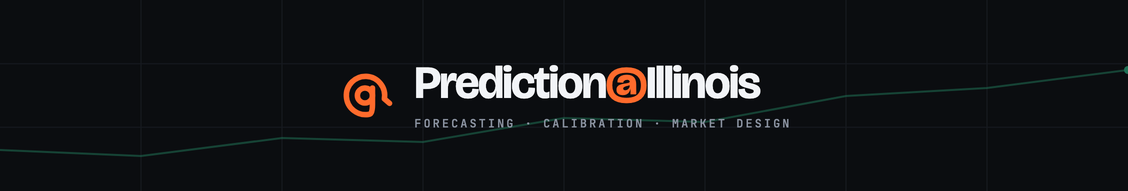
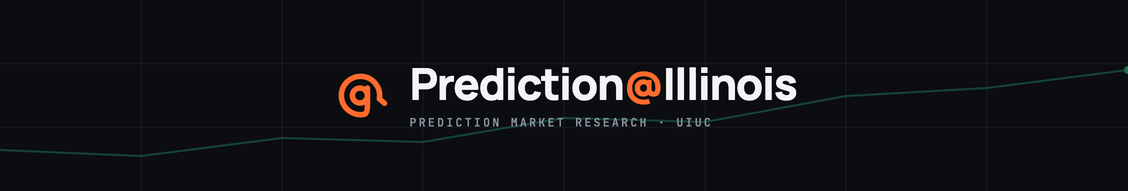
Hero: 'Prediction market research at Illinois', Manrope, live Polymarket board and ticker

Changed region(s): [[0.2793, 0.3403, 0.7137, 0.6283], [0.3413, 0.6021, 0.7137, 0.6806]]

diff --git a/index.html b/index.html
@@ -1,6 +1,6 @@
-<meta name="description" content="A student research group at the University of Illinois Urbana-Champaign that studies prediction markets end to end — pricing, forecasting, mechanism, application — across elections, sports, crypto, economics, tech, and weather. Fall 2026 applications open.">
+<meta name="description" content="Prediction@Illinois is a student research organization at the University of Illinois Urbana-Champaign focused on prediction markets: how they price events, how well they forecast, how contracts are designed and resolved, and what they are good for. Fall 2026 applications open.">
 <meta property="og:title" content="Prediction@Illinois">
-<meta property="og:description" content="We study prediction markets — pricing, forecasting, mechanism, application. A student research group at UIUC. Fall 2026 applications open.">
+<meta property="og:description" content="Prediction market research at Illinois. A student research organization at UIUC — Fall 2026 applications open.">
 <meta property="og:image" content="https://prediction-illinois.github.io/brand/og-image-1200x630.png">
 <meta property="og:url" content="https://prediction-illinois.github.io/">
 <meta property="og:type" content="website">
@@ -10,7 +10,7 @@
 <script>(function(){var r=document.documentElement;try{if(!r.dataset.theme){r.dataset.theme=localStorage.getItem("pi-theme")==="light"?"light":"dark"}}catch(e){r.dataset.theme="dark"}})();</script>
 <link rel="preconnect" href="https://fonts.googleapis.com">
 <link rel="preconnect" href="https://fonts.gstatic.com" crossorigin>
-<link rel="stylesheet" href="https://fonts.googleapis.com/css2?family=Bricolage+Grotesque:opsz,wght@12..96,500;12..96,700;12..96,800&family=DM+Sans:opsz,wght@9..40,400;9..40,500;9..40,600&family=JetBrains+Mono:wght@400;500;600&display=swap">
+<link rel="stylesheet" href="https://fonts.googleapis.com/css2?family=Manrope:wght@500;700;800&family=DM+Sans:opsz,wght@9..40,400;9..40,500;9..40,600&family=JetBrains+Mono:wght@400;500;600&display=swap">
 <style>
 :root{
   color-scheme:dark;
@@ -19,7 +19,7 @@
   --brand:#FF6B2C; --brand-ink:#0B0D10; --brand-soft:rgba(255,107,44,.12); --brand-line:rgba(255,107,44,.35);
   --yes:#34D399; --yes-soft:rgba(52,211,153,.13); --no:#F87171; --no-soft:rgba(248,113,113,.13);
   --glass:rgba(11,13,16,.78);
-  --display:"Bricolage Grotesque",ui-sans-serif,system-ui,-apple-system,"Segoe UI",sans-serif;
+  --display:"Manrope",ui-sans-serif,system-ui,-apple-system,"Segoe UI",sans-serif;
   --sans:"DM Sans",ui-sans-serif,system-ui,-apple-system,"Segoe UI",sans-serif;
   --mono:"JetBrains Mono",ui-monospace,SFMono-Regular,Menlo,monospace;
   --wrap:76rem; --prose:34rem;
@@ -59,7 +59,7 @@ header.site{position:sticky;top:env(safe-area-inset-top,0px);z-index:30;backgrou
 .bar{display:flex;align-items:center;gap:20px;min-height:62px}
 .brandlink{display:flex;align-items:center;gap:10px;text-decoration:none;margin-right:auto}
 .brandlink svg{width:26px;height:26px}
-.wordmark{font-family:var(--display);font-weight:700;font-size:19px;letter-spacing:-.025em;font-variation-settings:"opsz" 24}
+.wordmark{font-family:var(--display);font-weight:800;font-size:19px;letter-spacing:-.03em}
 .wordmark .at{color:var(--brand)}
 nav.site{display:flex;gap:22px;align-items:center}
 nav.site a{font-size:13.5px;font-weight:500;color:var(--ink-2);text-decoration:none}
@@ -81,8 +81,9 @@ nav.site a:hover{color:var(--ink)}
 /* hero */
 .hero{padding-block:clamp(48px,8vw,104px) clamp(40px,6vw,72px);display:grid;grid-template-columns:minmax(0,1.05fr) minmax(0,1fr);gap:clamp(28px,5vw,72px);align-items:center}
 @media (max-width:940px){.hero{grid-template-columns:1fr}}
-.hero h1{font-family:var(--display);font-weight:700;font-variation-settings:"opsz" 96;font-size:clamp(44px,7.2vw,86px);line-height:.98;letter-spacing:-.035em;margin-top:18px;max-width:11ch}
-.hero h1 em{font-style:normal;color:var(--brand)}
+.hero h1{font-family:var(--display);font-weight:800;font-size:clamp(38px,5.2vw,64px);line-height:1.04;letter-spacing:-.03em;margin-top:18px;max-width:14ch}
+.hero.solo{grid-template-columns:1fr}
+.hero.solo>div:first-child{max-width:46rem}
 .lede{max-width:var(--prose);margin-top:22px;font-size:17px;color:var(--ink-2);line-height:1.6}
 .lede strong{color:var(--ink);font-weight:600}
 .cta-row{display:flex;gap:12px;flex-wrap:wrap;margin-top:30px;align-items:center}
@@ -95,26 +96,7 @@ nav.site a:hover{color:var(--ink)}
 .live{display:inline-flex;align-items:center;gap:6px;font-family:var(--mono);font-size:10.5px;letter-spacing:.1em;text-transform:uppercase;color:var(--muted)}
 .live i{width:6px;height:6px;border-radius:50%;background:var(--brand);display:inline-block;animation:pulse 2s ease-in-out infinite}
 @keyframes pulse{0%,100%{opacity:1}50%{opacity:.35}}
-.feat{padding:18px 16px 14px}
-.feat .tag{font-family:var(--mono);font-size:10.5px;letter-spacing:.1em;text-transform:uppercase;color:var(--muted);display:flex;gap:8px;align-items:center}
-.feat .tag b{color:var(--brand);font-weight:500}
-.feat h3{font-family:var(--sans);font-weight:600;font-size:17px;line-height:1.35;margin-top:8px;letter-spacing:-.01em}
-.sides{display:grid;grid-template-columns:1fr 1fr;gap:10px;margin-top:14px}
-.side{border-radius:10px;padding:11px 12px;display:flex;justify-content:space-between;align-items:center;border:1px solid transparent}
-.side.yes{background:var(--yes-soft);border-color:color-mix(in srgb,var(--yes) 30%,transparent)}
-.side.no{background:var(--no-soft);border-color:color-mix(in srgb,var(--no) 30%,transparent)}
-.side .lbl{font-family:var(--mono);font-size:11px;letter-spacing:.12em;text-transform:uppercase}
-.side.yes .lbl,.side.yes .pct{color:var(--yes)} .side.no .lbl,.side.no .pct{color:var(--no)}
-.side .pct{font-family:var(--mono);font-weight:600;font-size:22px;font-variant-numeric:tabular-nums;letter-spacing:-.02em}
-.spark{margin-top:14px;height:74px;position:relative}
-.spark svg{width:100%;height:100%}
-.spark .grid line{stroke:var(--line);stroke-width:1}
-.spark .path{fill:none;stroke:var(--yes);stroke-width:2;stroke-linecap:round;stroke-linejoin:round}
-.spark .area{fill:url(#sparkfill)}
-.spark .end{fill:var(--yes)}
-.spark .lab{font-family:var(--mono);font-size:9px;fill:var(--muted)}
-.meta{display:flex;gap:14px;flex-wrap:wrap;margin-top:12px;font-family:var(--mono);font-size:11px;color:var(--muted);letter-spacing:.02em}
-.meta b{color:var(--ink-2);font-weight:500}
+
 .rows{border-top:1px solid var(--line)}
 .row{display:grid;grid-template-columns:1fr auto 92px;gap:12px;align-items:center;padding:11px 16px;border-bottom:1px solid var(--line);font-size:13.5px;color:var(--ink-2)}
 .row:last-child{border-bottom:0}
@@ -145,7 +127,7 @@ nav.site a:hover{color:var(--ink)}
 section.band{padding-block:clamp(56px,8vw,96px);border-bottom:1px solid var(--line)}
 .sec-head{display:grid;grid-template-columns:minmax(0,1fr) minmax(0,1fr);gap:24px;align-items:end}
 @media (max-width:760px){.sec-head{grid-template-columns:1fr}}
-.h2{font-family:var(--display);font-weight:700;font-variation-settings:"opsz" 72;font-size:clamp(30px,4.2vw,48px);letter-spacing:-.03em;line-height:1.02;margin-top:12px}
+.h2{font-family:var(--display);font-weight:800;font-size:clamp(28px,3.8vw,44px);letter-spacing:-.03em;line-height:1.05;margin-top:12px}
 .sub{max-width:var(--prose);color:var(--ink-2);font-size:16px;line-height:1.6}
 
 
@@ -221,10 +203,6 @@ footer{padding-block:40px 52px;color:var(--muted);font-size:12.5px}
         <path d="M62 37 L62 66 Q62 82.5 55.73 82.5 A33 33 0 1 1 82.5 55.73 L91.5 63.5"/>
       </g>
     </symbol>
-    <linearGradient id="sparkfill" x1="0" y1="0" x2="0" y2="1">
-      <stop offset="0" stop-color="#34D399" stop-opacity=".28"/>
-      <stop offset="1" stop-color="#34D399" stop-opacity="0"/>
-    </linearGradient>
   </defs>
 </svg>
 
@@ -245,11 +223,11 @@ footer{padding-block:40px 52px;color:var(--muted);font-size:12.5px}
 </header>
 
 <main id="top">
-  <section class="wrap hero">
+  <section class="wrap hero" id="hero">
     <div>
       <span class="eyebrow brand">University of Illinois Urbana–Champaign</span>
-      <h1>We study<br><em>prediction</em><br>markets.</h1>
-      <p class="lede">A student research group at UIUC that takes prediction markets as its whole subject: <strong>how prices form</strong> and who moves them, <strong>how well the crowd forecasts</strong> and when it doesn't, <strong>how contracts are designed</strong> and resolved, and <strong>what the markets are actually good for</strong> — across elections, sports, crypto, economics, tech, and weather.</p>
+      <h1>Prediction market research at Illinois.</h1>
+      <p class="lede">Prediction@Illinois is a student research organization at UIUC. We research how prediction markets price events, how well they forecast, how their contracts are designed and resolved, and what they are good for — across elections, sports, crypto, economics, tech, and weather.</p>
       <div class="cta-row">
         <a class="btn btn-1 btn-lg" href="#join">Apply for Fall 2026</a>
         <a class="btn btn-2 btn-lg" href="#roles">See the tracks</a>
@@ -257,52 +235,19 @@ footer{padding-block:40px 52px;color:var(--muted);font-size:12.5px}
       </div>
     </div>
 
-    <div class="board" aria-label="Sample research board">
+    <div class="board" id="board" hidden aria-label="Live prediction markets">
       <div class="board-head">
-        <span class="eyebrow">Research board · illustrative</span>
-        <span class="live"><i></i>Fall 2026</span>
+        <span class="eyebrow">Polymarket · most traded, 24h</span>
+        <span class="live"><i></i>Live</span>
       </div>
-      <div class="feat">
-        <div class="tag"><b>Elections</b> · resolves Nov 3</div>
-        <h3>Do market prices beat the polling average 30 days out from a US House race?</h3>
-        <div class="sides">
-          <div class="side yes"><span class="lbl">Yes</span><span class="pct num" data-count="64">64%</span></div>
-          <div class="side no"><span class="lbl">No</span><span class="pct num" data-count="36">36%</span></div>
-        </div>
-        <div class="spark">
-          <svg viewBox="0 0 320 74" preserveAspectRatio="none" aria-hidden="true">
-            <g class="grid"><line x1="0" y1="18" x2="320" y2="18"/><line x1="0" y1="37" x2="320" y2="37"/><line x1="0" y1="56" x2="320" y2="56"/></g>
-            <path class="area" d="M0 44 L14 46 L28 41 L42 43 L56 39 L70 40 L84 35 L98 37 L112 33 L126 34 L140 30 L154 32 L168 28 L182 25 L196 27 L210 23 L224 24 L238 21 L252 22 L266 19 L280 20 L294 17 L308 18 L320 16 L320 74 L0 74 Z"/>
-            <path class="path" id="sparkpath" d="M0 44 L14 46 L28 41 L42 43 L56 39 L70 40 L84 35 L98 37 L112 33 L126 34 L140 30 L154 32 L168 28 L182 25 L196 27 L210 23 L224 24 L238 21 L252 22 L266 19 L280 20 L294 17 L308 18 L320 16"/>
-            <circle class="end" cx="320" cy="16" r="3"/>
-            <text class="lab" x="4" y="14">70</text><text class="lab" x="4" y="52">50</text>
-          </svg>
-        </div>
-        <div class="meta"><span><b>42</b> forecasters</span><span><b>0.191</b> Brier</span><span>Question <b>#07</b> / 20</span></div>
-      </div>
-      <div class="rows">
-        <div class="row" data-side="yes"><div class="q">Does the pre-game favorite win as often as its price implies?<span>Sports</span></div><div class="pct num" data-count="71">71%</div><div class="track"><i style="transform:scaleX(.71)"></i></div></div>
-        <div class="row" data-side="no"><div class="q">Does longshot bias in sub-5¢ contracts survive fee-adjusted returns?<span>Crypto</span></div><div class="pct num" data-count="23">23%</div><div class="track"><i style="transform:scaleX(.23)"></i></div></div>
-        <div class="row" data-side="yes"><div class="q">Does the daily-high market beat the NWS forecast at 24 hours?<span>Weather</span></div><div class="pct num" data-count="58">58%</div><div class="track"><i style="transform:scaleX(.58)"></i></div></div>
-      </div>
-      <div class="board-foot">Figures are illustrative. Scored by Brier and log score; every question resolves against a public source.</div>
+      <div class="rows" id="board-rows"></div>
+      <div class="board-foot">Prices from Polymarket's public API at page load. Shown as research material.</div>
     </div>
   </section>
 
-  <div class="ticker" aria-hidden="true">
-    <div class="tk-track" id="tk">
-      <span class="tk" data-side="yes"><span class="cat">Economics</span>Cut of 25bp at the next FOMC<span class="num">58%</span></span>
-      <span class="tk" data-side="no"><span class="cat">Weather</span>Champaign high above 60°F on Friday<span class="num">31%</span></span>
-      <span class="tk" data-side="yes"><span class="cat">Sports</span>Illini finish above .500 in conference<span class="num">67%</span></span>
-      <span class="tk" data-side="no"><span class="cat">Economics</span>CPI print above consensus<span class="num">44%</span></span>
-      <span class="tk" data-side="yes"><span class="cat">Tech</span>Model released before quarter end<span class="num">72%</span></span>
-      <span class="tk" data-side="no"><span class="cat">Crypto</span>BTC above $100k at month end<span class="num">39%</span></span>
-      <span class="tk" data-side="yes"><span class="cat">Elections</span>House margin under 10 seats<span class="num">55%</span></span>
-      <span class="tk" data-side="no"><span class="cat">Finance</span>VIX closes above 20 this month<span class="num">28%</span></span>
-    </div>
+  <div class="ticker" id="ticker" hidden aria-hidden="true">
+    <div class="tk-track" id="tk"></div>
   </div>
-
-
 
   <section class="band" id="team" hidden>
     <div class="wrap">
@@ -414,30 +359,57 @@ document.getElementById("theme").addEventListener("click", () => {
   try { localStorage.setItem("pi-theme", next); } catch (_) {}
 });
 
-// ticker: duplicate once so the -50% loop is seamless
-const tk = document.getElementById("tk");
-tk.innerHTML += tk.innerHTML;
-
-// count-up on the board
-function countUp(el){
-  const target = +el.dataset.count, t0 = performance.now(), dur = 900;
-  const step = now => {
-    const k = Math.min(1, (now - t0) / dur), e = 1 - Math.pow(1 - k, 3);
-    el.textContent = Math.round(target * e) + "%";
-    if (k < 1) requestAnimationFrame(step);
-  };
-  requestAnimationFrame(step);
+// live board + ticker from Polymarket's public Gamma API (CORS-open). Falls back to a single-column hero.
+const TAGMAP = [
+  [/election/i, "Elections"], [/politic|geopolit|congress|senate|white house|trump|iran|israel|ukraine|world/i, "Politics"],
+  [/sport|esport|games?|nfl|nba|mlb|nhl|soccer|tennis|cfb|ufc|f1|golf|epl|ucl|football|baseball|basketball|hockey/i, "Sports"],
+  [/crypto|bitcoin|ethereum|solana|btc|eth/i, "Crypto"],
+  [/econom|fed|fomc|inflation|finance|business|stock|earnings|rates|oil|commodit|treasur/i, "Economics"],
+  [/tech|ai|science|space|openai|apple|google|nvidia|tesla/i, "Tech"],
+  [/weather|climate|temperature|hurricane|snow/i, "Weather"]
+];
+const mapTag = tags => { const L = (tags || []).map(t => t.label || ""); for (const [re, n] of TAGMAP) if (L.some(l => re.test(l))) return n; return L[0] || "Markets"; };
+const fmtVol = v => v >= 1e6 ? "$" + (v / 1e6).toFixed(1) + "M" : v >= 1e3 ? "$" + Math.round(v / 1e3) + "K" : "$" + Math.round(v);
+const esc = x => String(x).replace(/[&<>"]/g, c => ({ "&": "&amp;", "<": "&lt;", ">": "&gt;", '"': "&quot;" }[c]));
+// Mutually-exclusive events (negRisk: nominee, champion, Fed decision) → the leading sub-market.
+// Everything else (a game, a price ladder) → the most-traded sub-market, i.e. the main line, not a prop.
+function lead(e) {
+  const ms = (e.markets || []).filter(m => m.active && !m.closed); let best = null;
+  const byProb = !!e.negRisk;
+  for (const m of ms) {
+    let o, p; try { o = JSON.parse(m.outcomes); p = JSON.parse(m.outcomePrices).map(Number); } catch (_) { continue; }
+    if (!o || p.length < 2) continue;
+    const binary = o[0] === "Yes" && o[1] === "No", i = binary ? 0 : p.indexOf(Math.max(...p));
+    const label = binary ? (ms.length > 1 ? (m.groupItemTitle || "Yes") : "Yes") : o[i];
+    const key = byProb ? p[i] : (+m.volume24hr || 0);
+    if (!best || key > best.key) best = { prob: p[i], label, key };
+  }
+  return best;
 }
-// sparkline draw-in
-const sp = document.getElementById("sparkpath");
-if (!reduced) {
-  document.querySelectorAll("[data-count]").forEach(countUp);
-  const L = sp.getTotalLength();
-  sp.style.strokeDasharray = L; sp.style.strokeDashoffset = L;
-  sp.getBoundingClientRect();
-  sp.style.transition = "stroke-dashoffset 1.3s cubic-bezier(.2,.7,.2,1)";
-  requestAnimationFrame(() => { sp.style.strokeDashoffset = 0; });
+async function loadMarkets() {
+  const hero = document.getElementById("hero"), board = document.getElementById("board"),
+        rowsEl = document.getElementById("board-rows"), ticker = document.getElementById("ticker"), tk = document.getElementById("tk");
+  try {
+    const r = await fetch("https://gamma-api.polymarket.com/events?closed=false&active=true&limit=40&order=volume24hr&ascending=false");
+    if (!r.ok) throw 0;
+    const all = [];
+    for (const e of await r.json()) {
+      const b = lead(e); if (!b || b.prob < 0.03 || b.prob > 0.97) continue;
+      all.push({ title: e.title, tag: mapTag(e.tags), prob: b.prob, label: b.label, vol: +e.volume24hr || 0 });
+    }
+    if (all.length < 4) throw 0;
+    const per = {}, top = [], rest = [];
+    for (const x of all) { if (top.length < 6 && (per[x.tag] || 0) < 2) { per[x.tag] = (per[x.tag] || 0) + 1; top.push(x); } else rest.push(x); }
+    rowsEl.innerHTML = top.map(x => `<div class="row" data-side="${x.prob >= .5 ? "yes" : "no"}"><div class="q">${esc(x.title)}<span>${esc(x.tag)} · ${esc(x.label)} · ${fmtVol(x.vol)} 24h</span></div><div class="pct num">${Math.round(x.prob * 100)}%</div><div class="track"><i style="transform:scaleX(${x.prob.toFixed(3)})"></i></div></div>`).join("");
+    board.hidden = false;
+    const items = rest.slice(0, 14);
+    if (items.length >= 6) {
+      tk.innerHTML = items.map(x => `<span class="tk" data-side="${x.prob >= .5 ? "yes" : "no"}"><span class="cat">${esc(x.tag)}</span>${esc(x.title)}<span class="num">${Math.round(x.prob * 100)}%</span></span>`).join("");
+      tk.innerHTML += tk.innerHTML; ticker.hidden = false;
+    }
+  } catch (_) { hero.classList.add("solo"); }
 }
+loadMarkets();
 
 function flash(btn, word){ const old = btn.textContent; btn.textContent = word; setTimeout(() => { btn.textContent = old; }, 1600); }
 async function copyText(text, btn){

diff --git a/README.md b/README.md
@@ -1,9 +1,9 @@
 # Prediction@Illinois
 
-Website for Prediction@Illinois — the student research group for prediction markets at
+Website for Prediction@Illinois — the student research organization for prediction markets at
 the University of Illinois Urbana-Champaign.
 
-We study prediction markets end to end — pricing, forecasting, mechanism, application —
+We research prediction markets end to end — pricing, forecasting, mechanism, application —
 across elections, sports, crypto, economics, tech, and weather.
 
 **Fall 2026 applications are open.** Rolling, all majors, no finance background required.
